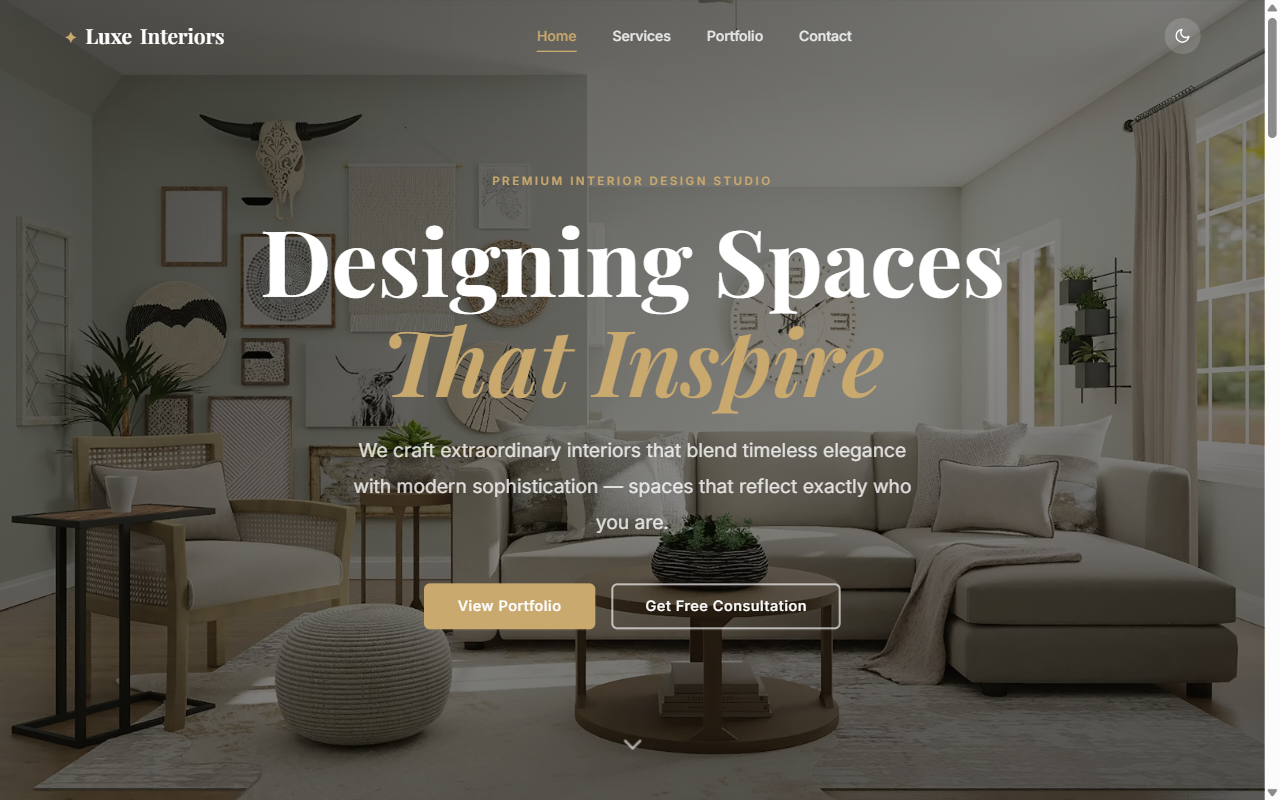
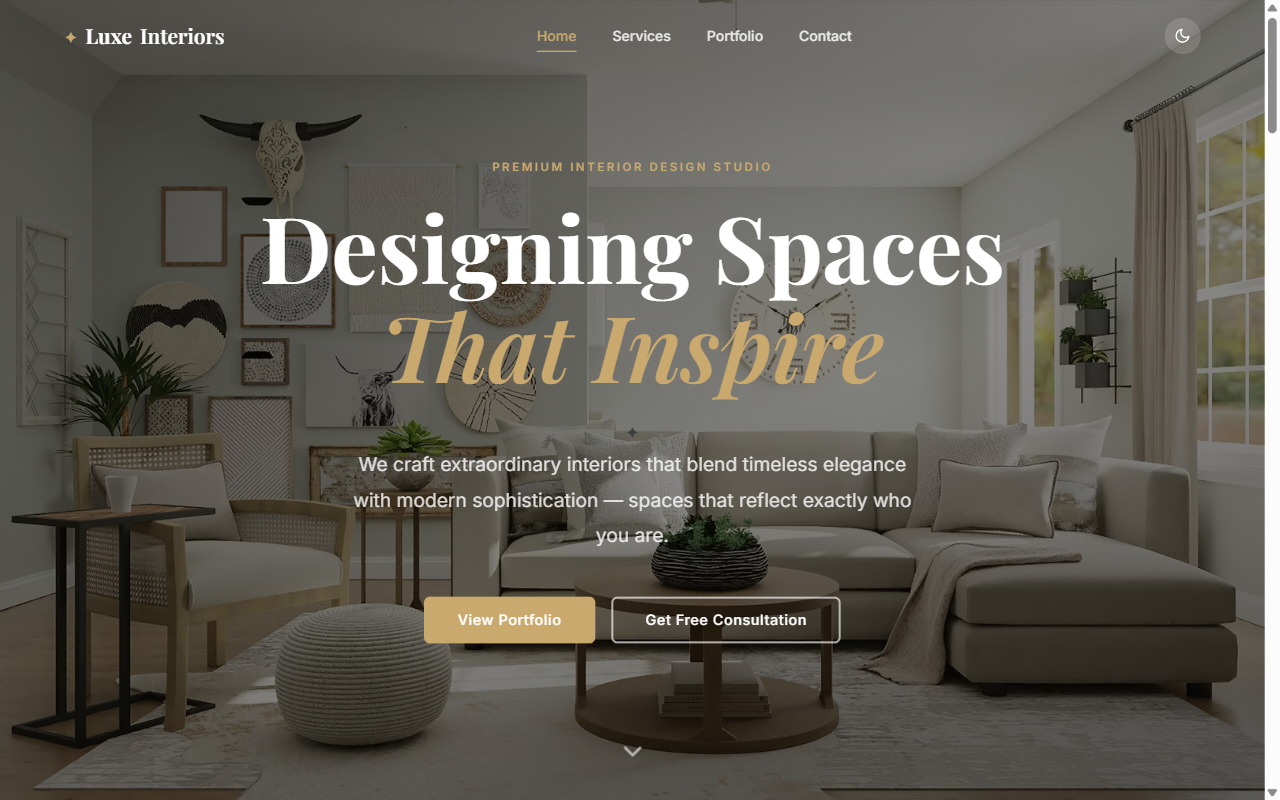
Revamp Luxe Interiors frontend design
CSS enhancements (style.css):
- Section tags: gold dash prefix via ::before
- Section header titles: subtle gold underline via ::after
- Hero: ornament divider element between title and subtitle
- Service cards: gold top accent bar that sweeps in on hover (::before scaleX)
- Testimonials: large decorative quotation mark (::before)
- Buttons: shimmer sweep effect on hover (::after translateX)
- Stats section: richer gradient bg + ambient radial gold glow
- Footer: gold gradient top accent line (::before)

HTML additions (luxe-interiors.html):
- Hero divider ornament (✦) between h1 and subtitle
- New CTA Banner section before footer: 'Ready to Transform Your Space?'
  with Start Your Project + View Our Work CTAs

Screenshot updated to reflect revamp.

Changed region(s): [[0.1875, 0.1875, 0.7812, 0.6875], [0.3125, 0.7188, 0.6562, 0.8125], [0.4688, 0.9062, 0.5, 0.9375]]

diff --git a/style.css b/style.css
@@ -1210,6 +1210,206 @@ h1, h2, h3, h4 {
 
 .back-to-top svg { width: 20px; height: 20px; }
 
+/* ═══════════════════════════════════════════════════
+   REVAMP — Enhanced Luxury Design System
+   ═══════════════════════════════════════════════════ */
+
+/* ── Section tag — gold dash prefix ── */
+.section-tag::before {
+  content: '';
+  display: inline-block;
+  width: 18px;
+  height: 1.5px;
+  background: var(--color-accent);
+  vertical-align: middle;
+  margin-right: 0.6rem;
+  border-radius: 1px;
+}
+
+/* ── Section header titles — subtle gold underline ── */
+.section-header .section-title::after {
+  content: '';
+  display: block;
+  width: 44px;
+  height: 2px;
+  background: linear-gradient(90deg, var(--color-accent), transparent);
+  margin: 0.875rem auto 0;
+  border-radius: 1px;
+}
+
+/* ── Hero — decorative ornament divider ── */
+.hero-divider {
+  display: flex;
+  align-items: center;
+  justify-content: center;
+  gap: 0.875rem;
+  margin: 0 auto 1.75rem;
+  max-width: 220px;
+}
+
+.hero-divider::before,
+.hero-divider::after {
+  content: '';
+  flex: 1;
+  height: 1px;
+  background: rgba(201, 169, 110, 0.5);
+}
+
+.hero-divider-icon {
+  color: var(--color-accent);
+  font-size: 0.65rem;
+  opacity: 0.9;
+}
+
+/* ── Service cards — gold top accent bar reveal ── */
+.service-card {
+  position: relative;
+  overflow: hidden;
+}
+
+.service-card::before {
+  content: '';
+  position: absolute;
+  top: 0; left: 0; right: 0;
+  height: 3px;
+  background: linear-gradient(90deg, var(--color-accent-dark), var(--color-accent));
+  transform: scaleX(0);
+  transform-origin: left;
+  transition: transform 0.35s cubic-bezier(0.4, 0, 0.2, 1);
+  border-radius: var(--radius-md) var(--radius-md) 0 0;
+}
+
+.service-card:hover::before { transform: scaleX(1); }
+
+/* ── Testimonials — large decorative quote mark ── */
+.testimonial-card { position: relative; }
+
+.testimonial-card::before {
+  content: '\201C';
+  font-family: var(--font-serif);
+  font-size: 9rem;
+  color: var(--color-accent);
+  opacity: 0.09;
+  position: absolute;
+  top: -0.75rem;
+  left: 1.5rem;
+  line-height: 1;
+  pointer-events: none;
+  user-select: none;
+}
+
+/* ── Buttons — shimmer sweep on hover ── */
+.btn {
+  position: relative;
+  overflow: hidden;
+}
+
+.btn::after {
+  content: '';
+  position: absolute;
+  inset: 0;
+  background: linear-gradient(
+    105deg,
+    transparent 30%,
+    rgba(255, 255, 255, 0.2) 50%,
+    transparent 70%
+  );
+  transform: translateX(-200%);
+  transition: transform 0.55s ease;
+}
+
+.btn:hover::after { transform: translateX(200%); }
+
+/* ── Stats section — richer background with ambient glow ── */
+.stats-section {
+  position: relative;
+  background: linear-gradient(180deg, #0F0D0A 0%, #1A1A1A 50%, #0F0D0A 100%);
+}
+
+.stats-section::before {
+  content: '';
+  position: absolute;
+  inset: 0;
+  background:
+    radial-gradient(ellipse at 20% 50%, rgba(201, 169, 110, 0.07) 0%, transparent 55%),
+    radial-gradient(ellipse at 80% 50%, rgba(201, 169, 110, 0.07) 0%, transparent 55%);
+  pointer-events: none;
+}
+
+.stats-section .container { position: relative; }
+
+/* ── Footer — gold top border glow ── */
+.footer { position: relative; }
+
+.footer::before {
+  content: '';
+  position: absolute;
+  top: 0; left: 10%; right: 10%;
+  height: 1px;
+  background: linear-gradient(90deg, transparent, rgba(201, 169, 110, 0.4), transparent);
+}
+
+/* ── CTA Banner — new pre-footer section ── */
+.cta-banner {
+  background: linear-gradient(135deg, #100D08 0%, #1C1710 60%, #100D08 100%);
+  padding: 7rem 0;
+  text-align: center;
+  position: relative;
+  overflow: hidden;
+}
+
+.cta-banner::before {
+  content: '';
+  position: absolute;
+  inset: 0;
+  background: radial-gradient(ellipse at 50% -10%, rgba(201, 169, 110, 0.14) 0%, transparent 65%);
+  pointer-events: none;
+}
+
+.cta-banner::after {
+  content: '';
+  position: absolute;
+  top: 0; left: 10%; right: 10%;
+  height: 1px;
+  background: linear-gradient(90deg, transparent, rgba(201, 169, 110, 0.45), transparent);
+}
+
+.cta-banner .container { position: relative; }
+
+.cta-banner .section-tag { color: var(--color-accent); }
+
+.cta-banner .section-title {
+  color: #fff;
+  max-width: 640px;
+  margin: 0.5rem auto 1.25rem;
+}
+
+.cta-banner .section-desc {
+  color: rgba(255, 255, 255, 0.55);
+  max-width: 520px;
+  margin: 0 auto 3rem;
+}
+
+.cta-banner-actions {
+  display: flex;
+  gap: 1.25rem;
+  justify-content: center;
+  flex-wrap: wrap;
+}
+
+.btn-ghost {
+  background: transparent;
+  color: rgba(255, 255, 255, 0.75);
+  border: 2px solid rgba(255, 255, 255, 0.22);
+}
+
+.btn-ghost:hover {
+  background: rgba(255, 255, 255, 0.08);
+  border-color: rgba(255, 255, 255, 0.5);
+  color: #fff;
+  transform: translateY(-2px);
+}
+
 /* ===== RESPONSIVE ===== */
 
 /* Tablet */
@@ -1319,4 +1519,11 @@ h1, h2, h3, h4 {
   .filter-btn { padding: 0.45rem 1rem; font-size: 0.78rem; }
 
   .stats-grid { grid-template-columns: repeat(2, 1fr); }
+}
+
+/* CTA banner responsive */
+@media (max-width: 768px) {
+  .cta-banner { padding: 4.5rem 0; }
+  .cta-banner-actions { flex-direction: column; align-items: center; }
+  .cta-banner-actions .btn { width: 100%; max-width: 300px; }
 }

diff --git a/luxe-interiors.html b/luxe-interiors.html
@@ -65,6 +65,9 @@
         Designing Spaces<br>
         <em>That Inspire</em>
       </h1>
+      <div class="hero-divider" aria-hidden="true">
+        <span class="hero-divider-icon">✦</span>
+      </div>
       <p class="hero-subtitle">
         We craft extraordinary interiors that blend timeless elegance with modern
         sophistication — spaces that reflect exactly who you are.
@@ -496,6 +499,24 @@
           </form>
         </div>
 
+      </div>
+    </div>
+  </section>
+
+  <!-- ═══════════════════════════════════════════
+       CTA BANNER
+  ═══════════════════════════════════════════ -->
+  <section class="cta-banner">
+    <div class="container">
+      <span class="section-tag">Begin Your Journey</span>
+      <h2 class="section-title">Ready to Transform Your Space?</h2>
+      <p class="section-desc">
+        From initial concept to final reveal, our team guides you through every step.
+        Let's create something truly extraordinary together.
+      </p>
+      <div class="cta-banner-actions">
+        <a href="#contact" class="btn btn-primary">Start Your Project</a>
+        <a href="#portfolio" class="btn btn-ghost">View Our Work</a>
       </div>
     </div>
   </section>